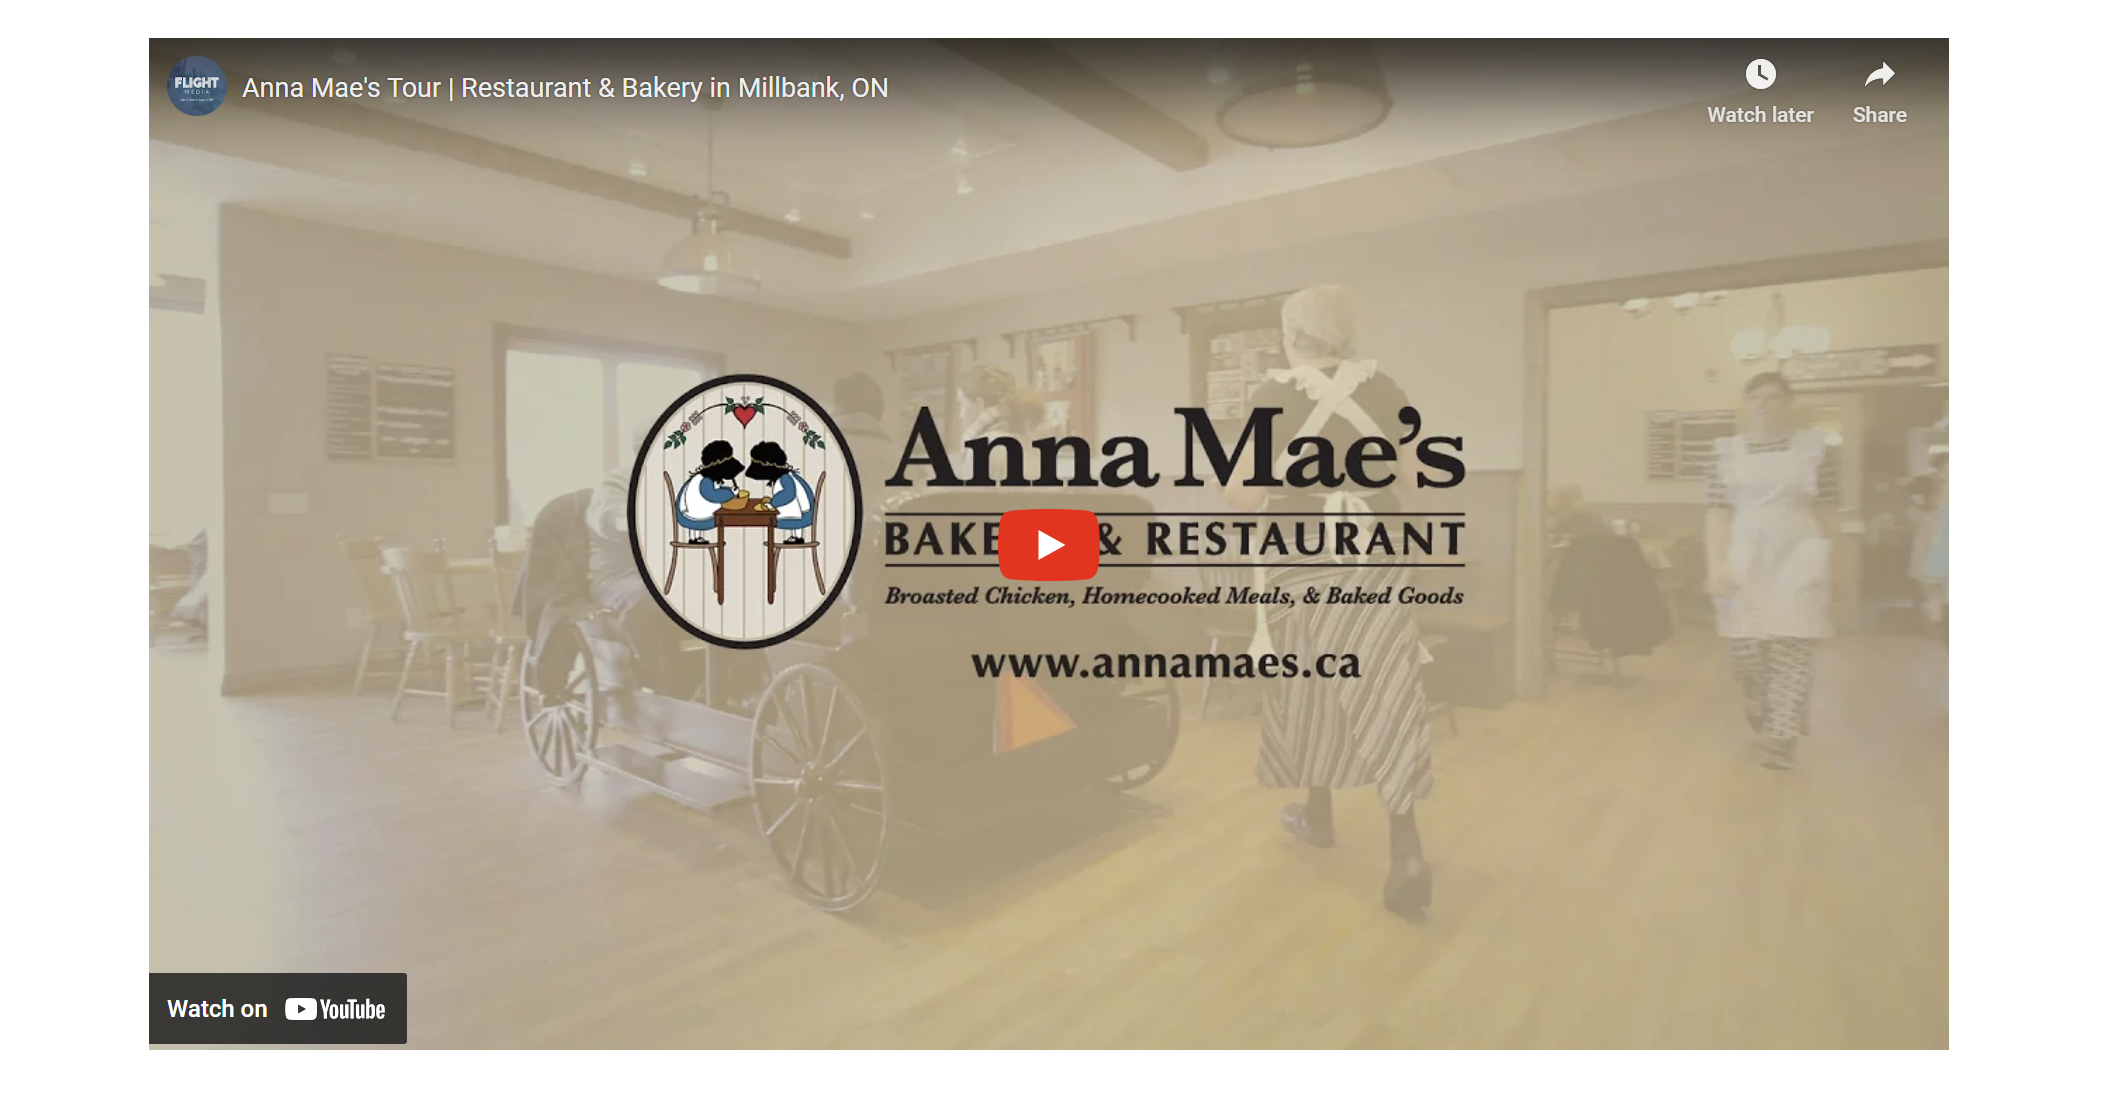
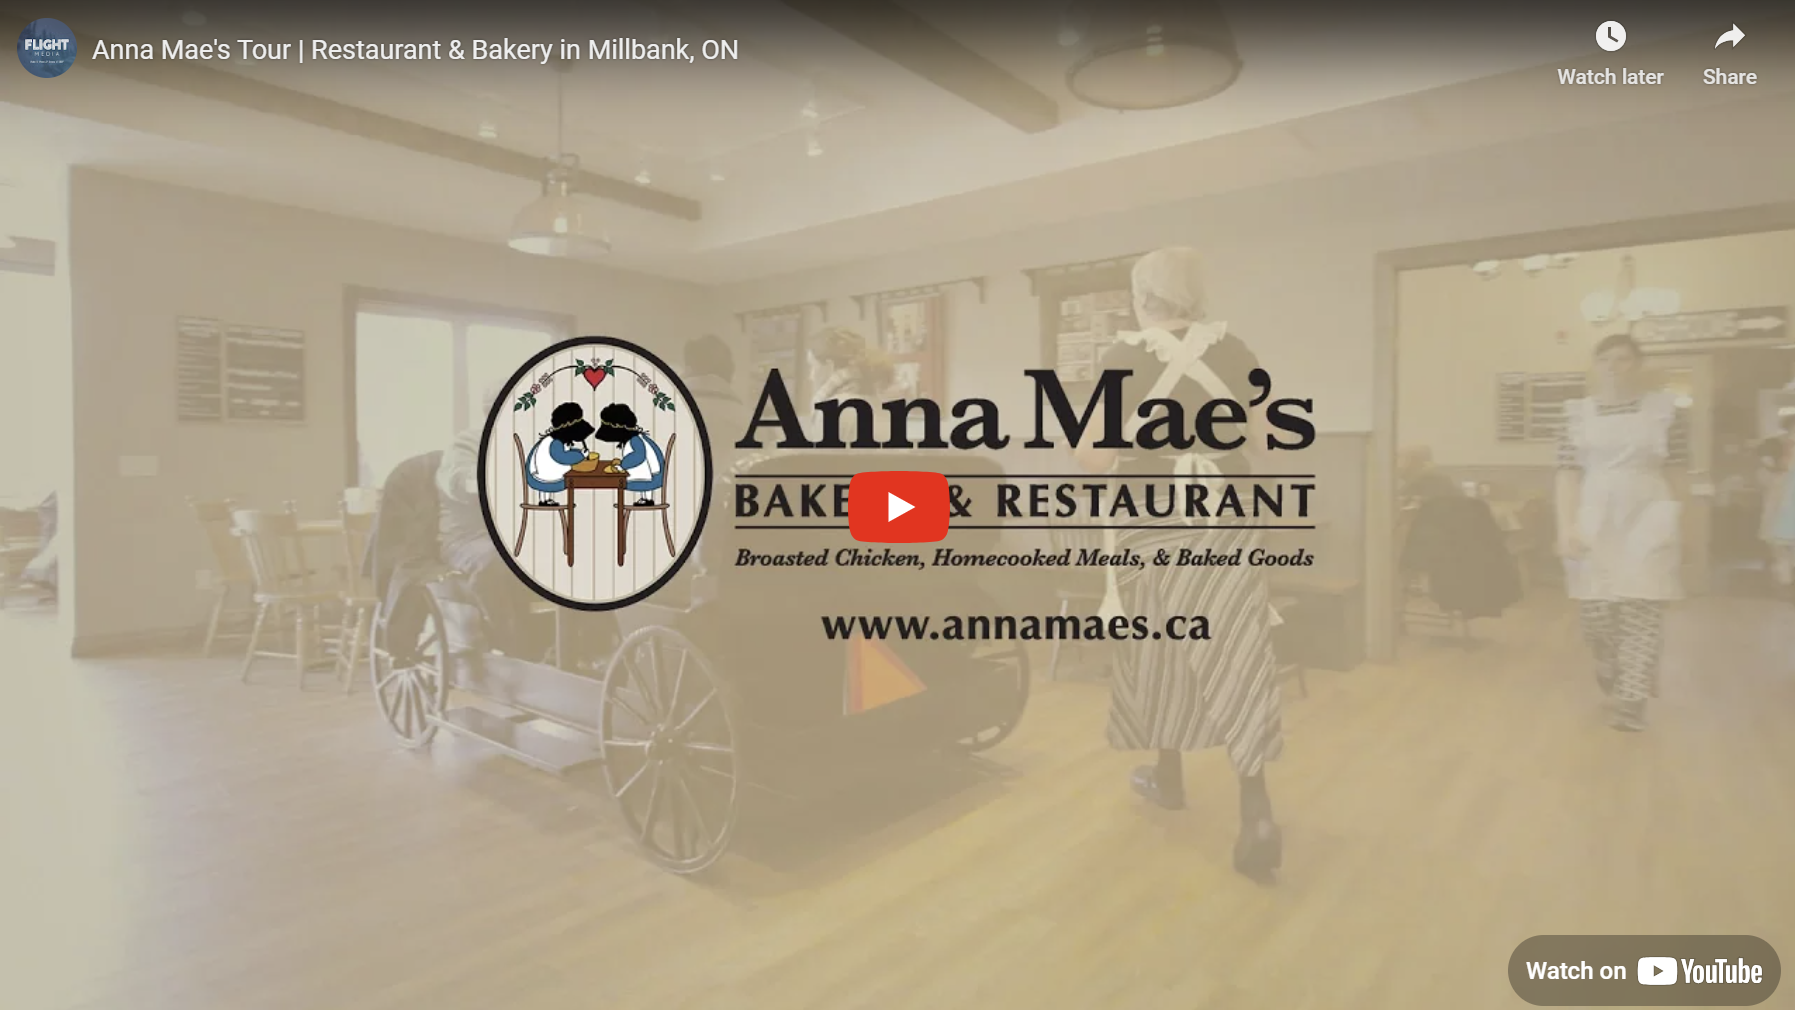
added picture of YouTube video

diff --git a/components/components.html b/components/components.html
@@ -51,14 +51,29 @@
             <p>Anna Mae’s is a great family owned & operated establishment and an excellent choice to eat before or after you take in the St. Jacob’s Farmers Market.  We are less than 30 minutes from Stratford, Waterloo, Drayton & St Jacob’s.  Our quaint village also has a Cheese Outlet, Country Market, Hardware Store, Mennonite Furniture Shop and quilt shops! Come in and try our famous Broasted Chicken and Made in-house Mennonite Meals & Baking!</p>
             <p>We bake a variety of 18+ Pies made in-house everyday!</p>
             <p>Reservations: We accept reservations for groups of 10 or more, or for our Buggy Booth (seats 4 guests) by calling 519-595-4407.
-            <p>We also have GLUTEN CONSCIOUS baking! Please see our <a href="#" class="bakery">Bakery</a> section for a list of all of our made in-house products.</p> 
+            <p>We also have GLUTEN CONSCIOUS baking! Please see our <a href="#!" class="bakery">Bakery</a> section for a list of all of our made in-house products.</p> 
             <p>*Please note: the following ingredients are used in our facility: WHEAT, EGGS, MILK, SOY, PEANUTS, TREE NUTS, MUSTARD, & FISH. SESAME & SULPHITES can also be found within some ingredients in our facility. Although we try our best, cross contamination is always a possibility.</p>
          </div>
          <div class="part2">
             <img src="../components/img/6.png" alt="image of a blueberry pie" class="bpieImage" srcset="../components/img/6a.png">
          </div>
 
- </div>
+         <div class="video video1">
+            <a href="https://www.youtube.com/watch?v=CQ9swLRmIQk"><img src="../components/img/7.png" alt="video of the bakery and restaurant" class="bakeryVideo"></a>
+         </div>
+
+    </div>
+    <div class="mainContainer">
+        <div class="buggy">
+
+
+        </div>
+        <div class="eat">
+
+
+
+        </div>
+    </div>
 
    
 

diff --git a/css/style.css b/css/style.css
@@ -25,6 +25,7 @@
 body{
     font-family: "Fira Sans Extra Condensed";
     font-weight: 200;
+    font-size:large;
 }
 
 .header{
@@ -37,6 +38,12 @@ body{
     font-style: normal;
     grid-gap:5px;
     
+}
+
+.mainContainer{
+    display: grid;
+    grid-template-columns: repeat(2, minmax(300px, 1fr));
+    grid-gap: 30px;
 }
 
 .split{
@@ -63,6 +70,7 @@ body{
 h2.title1{
     font-weight: 100;
     margin-bottom: 0;
+    font-size: 250%;
 }
 
 h2.title2{
@@ -71,6 +79,7 @@ h2.title2{
     display: inline-block;
     font-weight: 100;
     margin-top: 0;
+    font-size: 250%;
 }
 
 .pieImage{
@@ -81,6 +90,11 @@ h2.title2{
     display: grid;
     grid-template-columns: minmax(500px, 1fr);
     */
+}
+
+.bakeryVideo{
+    max-width: 200%;
+    height: auto;
 }
 
 .f{
